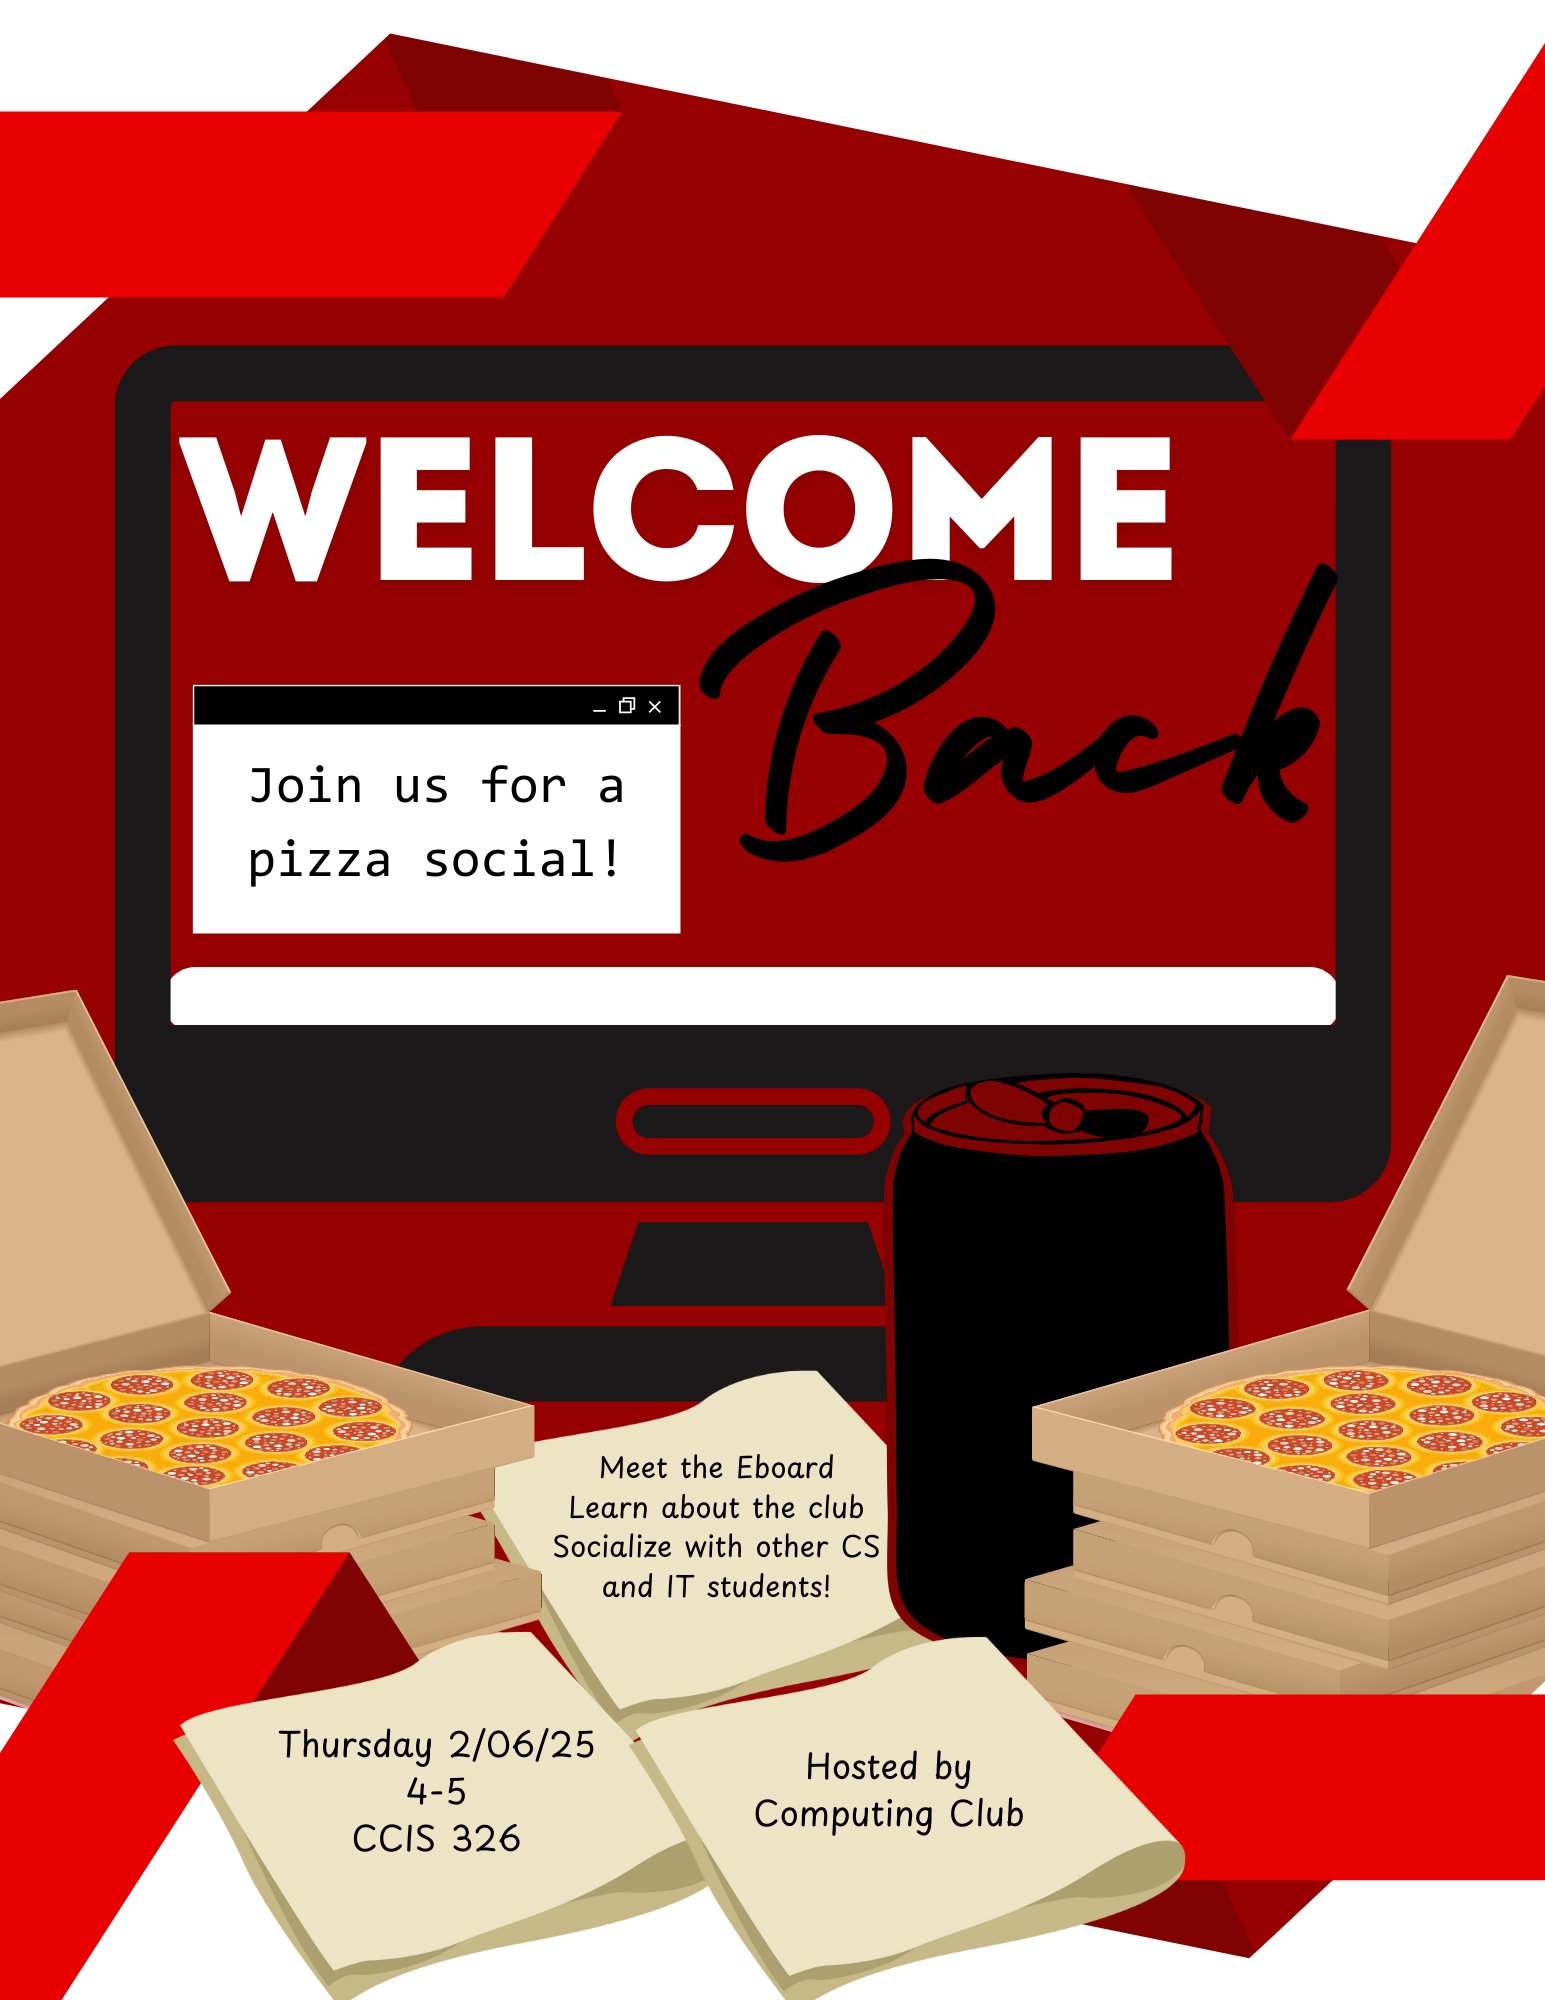
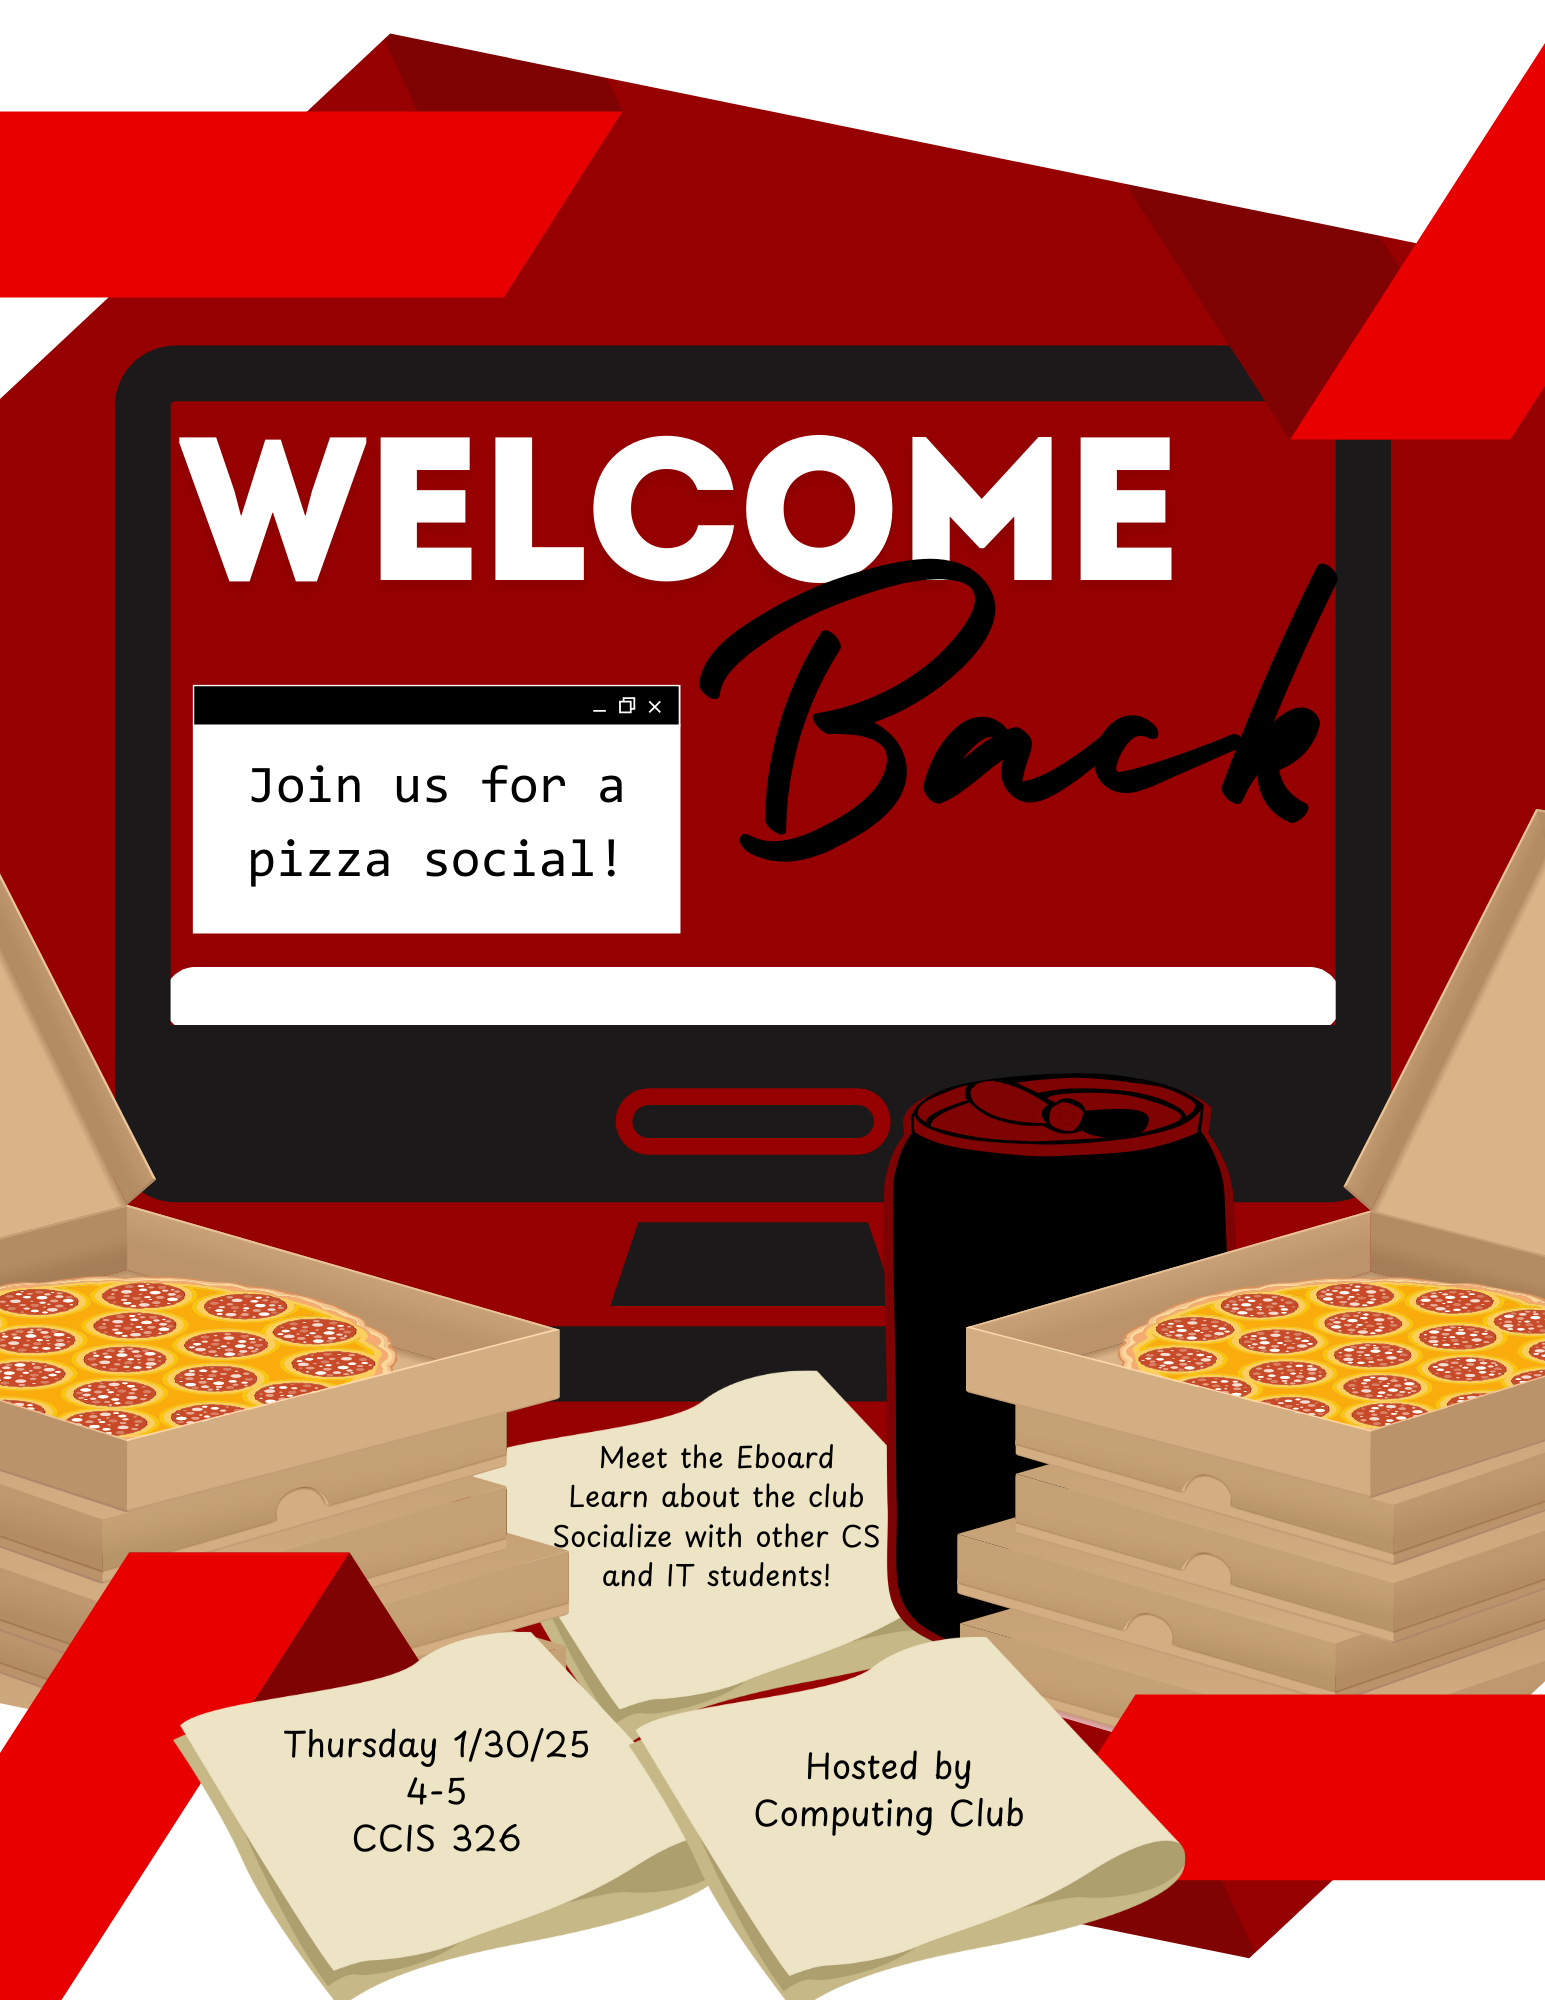
fixed social links

diff --git a/src/Components/Socials/index.js b/src/Components/Socials/index.js
@@ -13,10 +13,10 @@ const Socials = () => {
                 <a href="https://www.linkedin.com/company/montclair-state-university-computing-club/" target={"_blank"} rel="noreferrer">
                     <FontAwesomeIcon className="icon" icon={faLinkedin}/>
                 </a>
-                <a href="" target={"_blank"} rel="noreferrer">
+                <a href="https://discord.com/invite/czpPCeNpah" target={"_blank"} rel="noreferrer">
                     <FontAwesomeIcon className="icon" icon={faDiscord}/>
                 </a>
-                <a href="instagram://user?username=msucomputingclub" onclick="window.location.href='https://www.instagram.com/msucomputingclub'" target={"_blank"} rel="noreferrer">
+                <a href="https://www.instagram.com/msucomputingclub" target={"_blank"} rel="noreferrer">
                     <FontAwesomeIcon className="icon" icon={faInstagram}/>
                 </a>
 

diff --git a/src/Components/Meetings/index.js b/src/Components/Meetings/index.js
@@ -10,7 +10,7 @@ const Meetings = () => {
             <div className="meetings-text">
             <p>
                 We typically meet on Thursdays from 4:00pm to 5:00pm biweekly, in CCIS
-                236. Please pay attention to our <a target={"_blank"} rel="noreferrer" href="https://discord.gg/BQTFUnyE"> club discord</a> for
+                236. Please pay attention to our <a target={"_blank"} rel="noreferrer" href="https://discord.com/invite/czpPCeNpah"> club discord</a> for
                 any changes in our schedule. We will also update this website to 
                 reflect the schedule; however, that is subject to change.
             </p>

diff --git a/src/Components/Calendar/index.js b/src/Components/Calendar/index.js
@@ -10,8 +10,8 @@ const localizer = momentLocalizer(moment);
 const events = [
   {
     title: 'Pizza Social',
-    start: new Date(2025, 1, 6, 16, 0),
-    end: new Date(2025, 1, 6, 17, 0),
+    start: new Date(2025, 0, 30, 16, 0),
+    end: new Date(2025, 0, 30, 17, 0),
     png: process.env.PUBLIC_URL + '/Images/Back.png', 
   },
   {

diff --git a/src/Components/Calendar/index.scss b/src/Components/Calendar/index.scss
@@ -27,4 +27,10 @@
     background-color: #d1190d;
 }
 
+.rbc-event {
+    background-color: rgb(209, 25, 13);
+}
 
+.rbc-event.rbc-selected, .rbc-day-slot .rbc-selected.rbc-background-event {
+    background-color: gray;
+}
